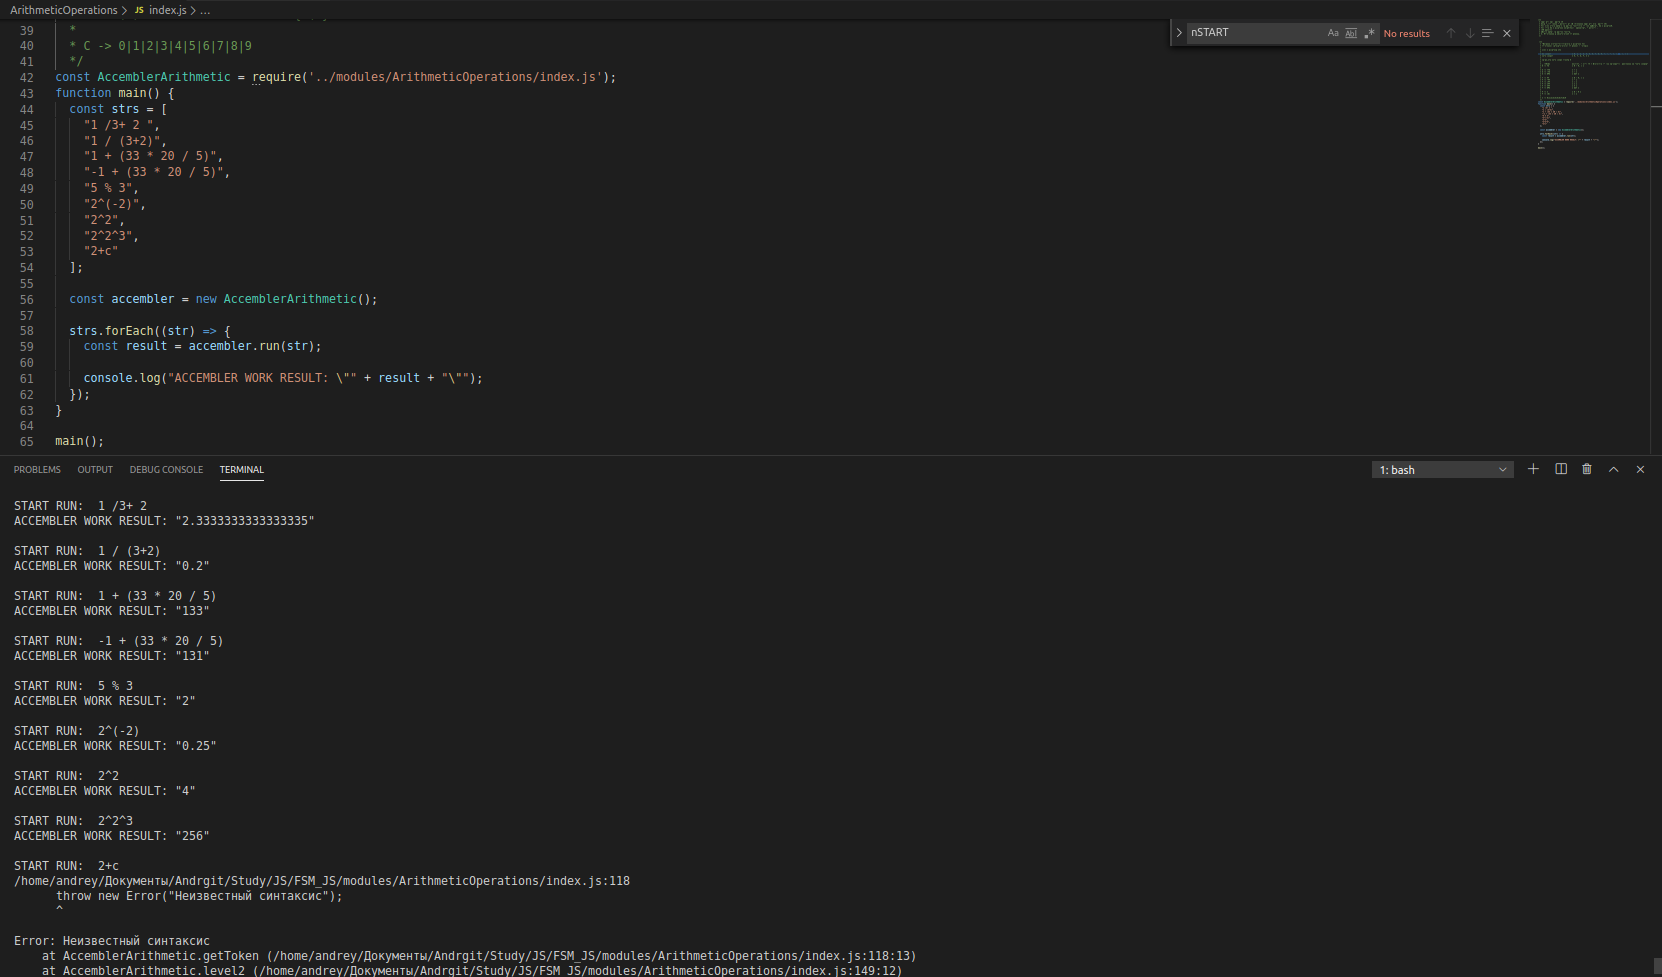
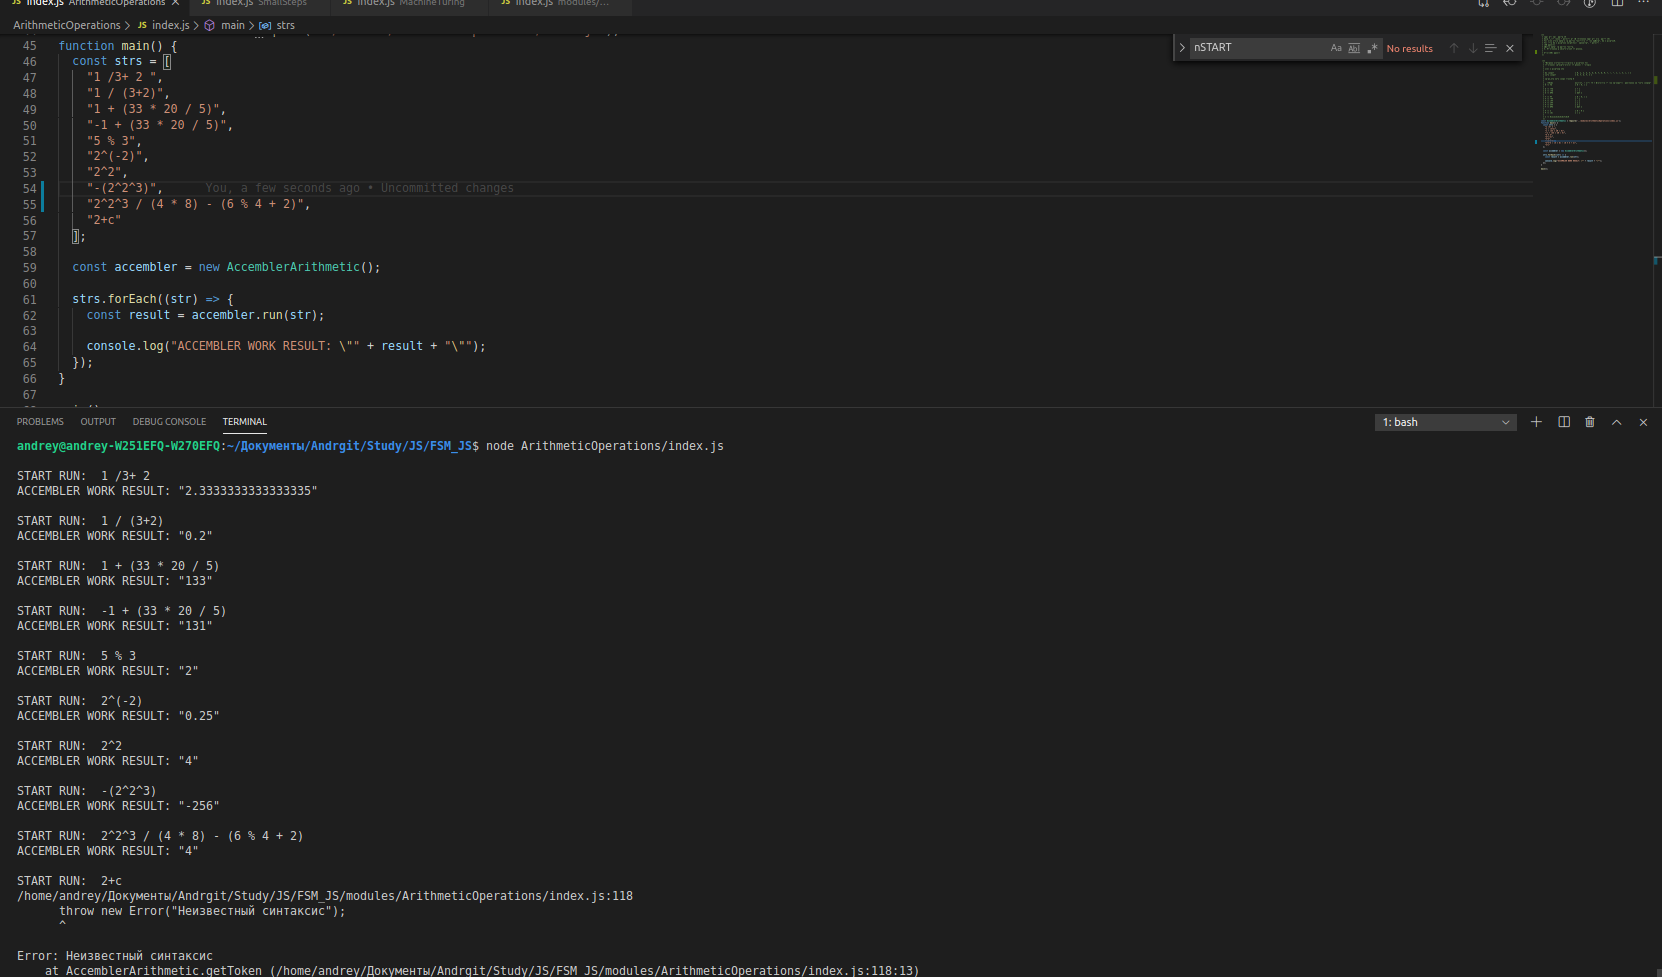
master Добавил новое большое выражение для вычислений

diff --git a/MachineTuring/index.js b/MachineTuring/index.js
@@ -10,6 +10,9 @@
  * 5. Реализовать с помощью машины Тьюринга распознавание строк вида «aaabbbccc» –
  * сначала символ a, потом столько же b и столько же c. (см. книгу Тома Стюарта)
  * (дополнительно 15 баллов)
+ * 
+ * 
+ * Итого(35) баллов
  */
 
 const MachineTuring = require('../modules/MachineTuring/index.js');

diff --git a/ArithmeticOperations/index.js b/ArithmeticOperations/index.js
@@ -6,6 +6,8 @@
  * (40 баллов)
  * Список задач обработки текста.
  * 3. Вычисление арифметических выражений.
+ * 
+ * Итого(40) баллов
  */
 
 
@@ -49,7 +51,8 @@ function main() {
     "5 % 3",
     "2^(-2)",
     "2^2",
-    "2^2^3",
+    "-(2^2^3)",
+    "2^2^3 / (4 * 8) - (6 % 4 + 2)",
     "2+c"
   ];
 

diff --git a/SmallSteps/index.js b/SmallSteps/index.js
@@ -7,6 +7,8 @@
  * представленного одним объектом на примере простых арифметических выражений. (см.
  * книгу Тома Стюарта)
  * (15 баллов)
+ * 
+ * Итого(15) баллов
  */
 const {
     SNumber, SBoolean,
